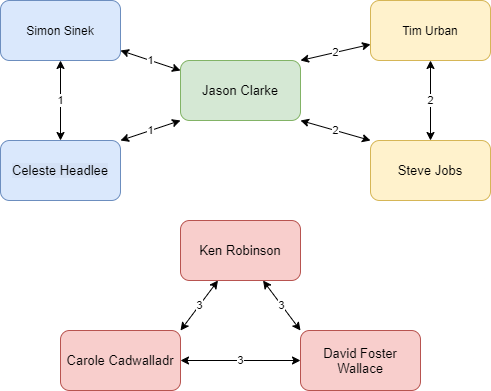
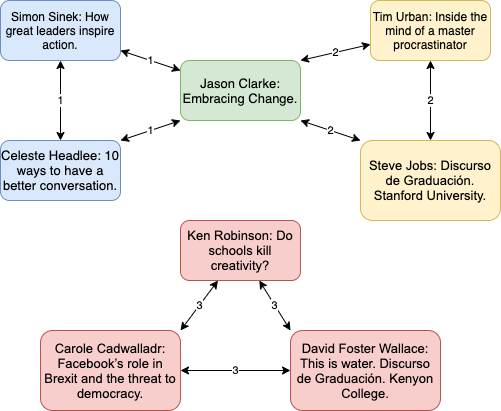
Entrega

diff --git a/src/tedTalks/TalksRelation.js b/src/tedTalks/TalksRelation.js
@@ -18,12 +18,12 @@ export default function TalksRelation() {
       spacing={2}
     >
     <Typography variant="h3" component="h2" gutterBottom>
-      Relaciones entre las charlas teds
+      Relaciones entre las charlas TED
     </Typography>    
     <Divider/>
 
     <Typography variant="h5" component="h2" gutterBottom style={{fontStyle: "italic", color:"#808080"}}>
-      El siguiente diagrama muestra las relaciones que supimos identificar entre las charlas Teds.
+      El siguiente diagrama muestra las relaciones que supimos identificar entre las charlas TED.
     </Typography>
     <ImageZoom
       image={{
@@ -57,7 +57,7 @@ export default function TalksRelation() {
 
     <Box m={1}/>
     <Typography variant="h5" component="h2" gutterBottom >
-      2. Relación entre Inside the mind of master procrastinator (Tim Urban), Jason Clarke y Steve Jobs
+      2. Relación entre Inside the mind of master procrastinator (Tim Urban), Embracing Change (Jason Clarke) y Discurso de Graduación (Steve Jobs)
     </Typography>
 
     <Typography variant="subtitle1" gutterBottom align="justify"  >
@@ -66,7 +66,7 @@ export default function TalksRelation() {
 
     <Box m={1}/>
     <Typography variant="h5" component="h2" gutterBottom >
-      3. Relación entre Ken Robinson, Carole Cadwalladr y David Foster Wallace.
+      3. Relación entre Do schools kill creativity? (Ken Robinson), Facebook’s role in Brexit and the threat to democracy (Carole Cadwalladr) y This is water (David Foster Wallace)
     </Typography>
 
     <Typography variant="subtitle1" gutterBottom align="justify"  >

diff --git a/src/tedTalks/LearnedLessons.js b/src/tedTalks/LearnedLessons.js
@@ -16,7 +16,7 @@ export default function LearnedLessons() {
       spacing={2}
     >
     <Typography variant="h3" component="h2" gutterBottom>
-      Lecciones aprendidas de las charlas teds
+      Pasajes importantes y lecciones aprendidas de charlas TED
     </Typography>    
     <Divider/>
     
@@ -31,7 +31,7 @@ export default function LearnedLessons() {
 
     <Box m={1}/>
     <Typography variant="h5" component="h2" gutterBottom >
-      El papel de Facebook en el Brexit y la amenaza a la democracia
+      El papel de Facebook en el Brexit y la creencia
     </Typography>
 
     <Typography variant="subtitle1" gutterBottom align="justify"  >
@@ -89,7 +89,7 @@ export default function LearnedLessons() {
 
     <Box m={1}/>
     <Typography variant="h5" component="h2" gutterBottom >
-      FB2
+      El papel de Facebook en el Brexit y la apropiación incluyente
     </Typography>
 
     <Typography variant="subtitle1" gutterBottom align="justify"  >

diff --git a/src/components/Header.js b/src/components/Header.js
@@ -396,12 +396,12 @@ export default function Header(props) {
           >
             <MenuItem onClick = {handleCloseMenuTeds}>
               <Link to={"/talks/relation"}>
-                Relaciones entre las charlas Teds
+                Relaciones entre las charlas TED
               </Link>
             </MenuItem> 
             <MenuItem onClick = {handleCloseMenuTeds}>
               <Link to={"/talks/learnedlesson"}>
-                Lecciones aprendidas de las charlas
+                Lecciones aprendidas de charlas TED
               </Link>
             </MenuItem> 
             <MenuItem onClick = {handleCloseMenuTeds}>
